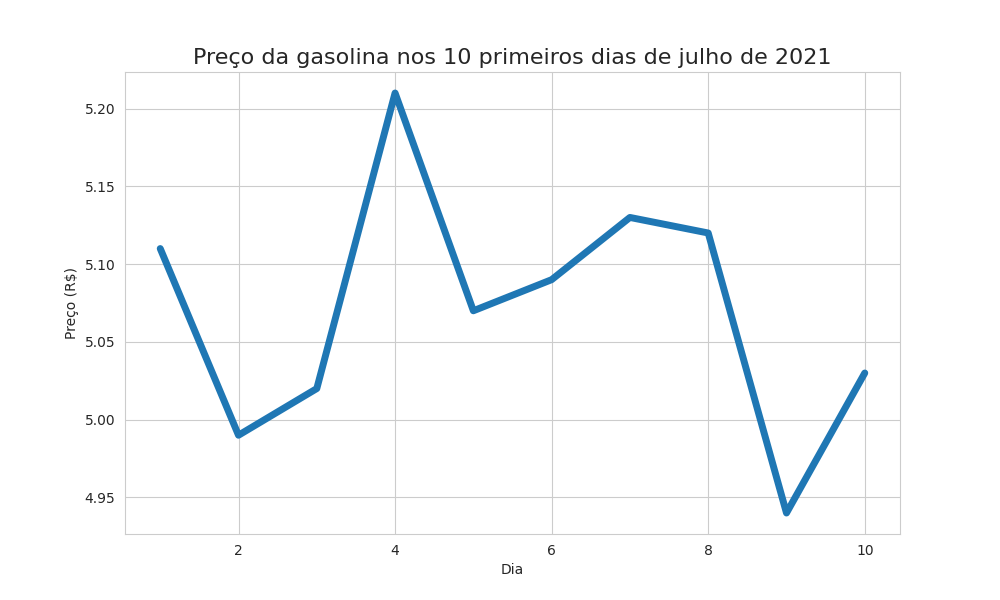
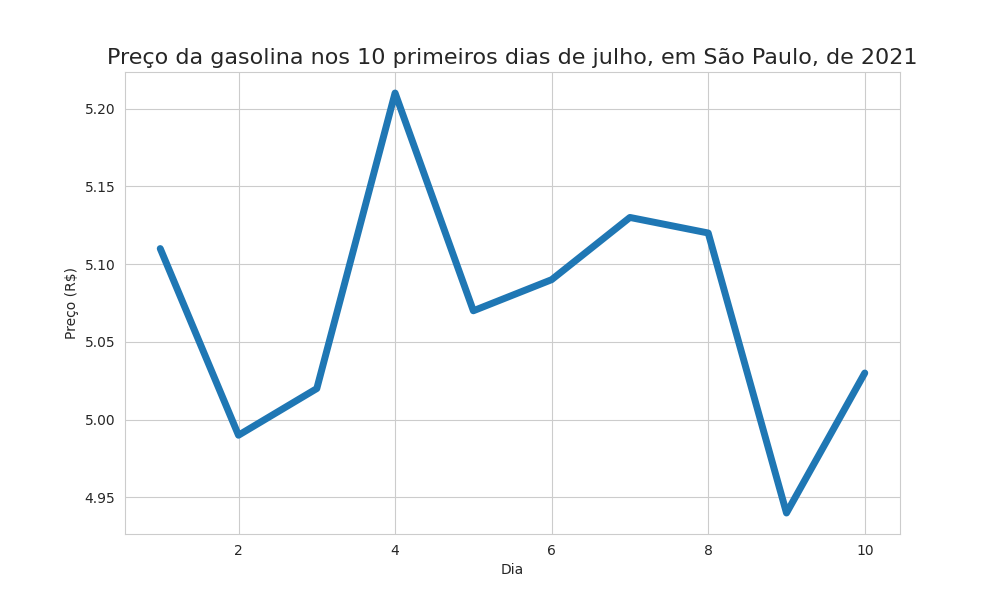
updated files: gasolina.py and gasolina.png

Changed region(s): [[0.093, 0.06, 0.899, 0.12]]

diff --git a/gasolina.py b/gasolina.py
@@ -7,5 +7,5 @@ gasolina_df = pd.read_csv('./gasolina.csv')
 with sns.axes_style('whitegrid'):
   plt.figure(figsize=(10, 6))
   grafico = sns.lineplot(data=gasolina_df, x='dia', y='venda', linewidth=5)
-  grafico.set_title('Preço da gasolina nos 10 primeiros dias de julho de 2021', fontsize=16)
+  grafico.set_title('Preço da gasolina nos 10 primeiros dias de julho, em São Paulo, de 2021', fontsize=16)
   grafico.set(xlabel='Dia', ylabel='Preço (R$)')
